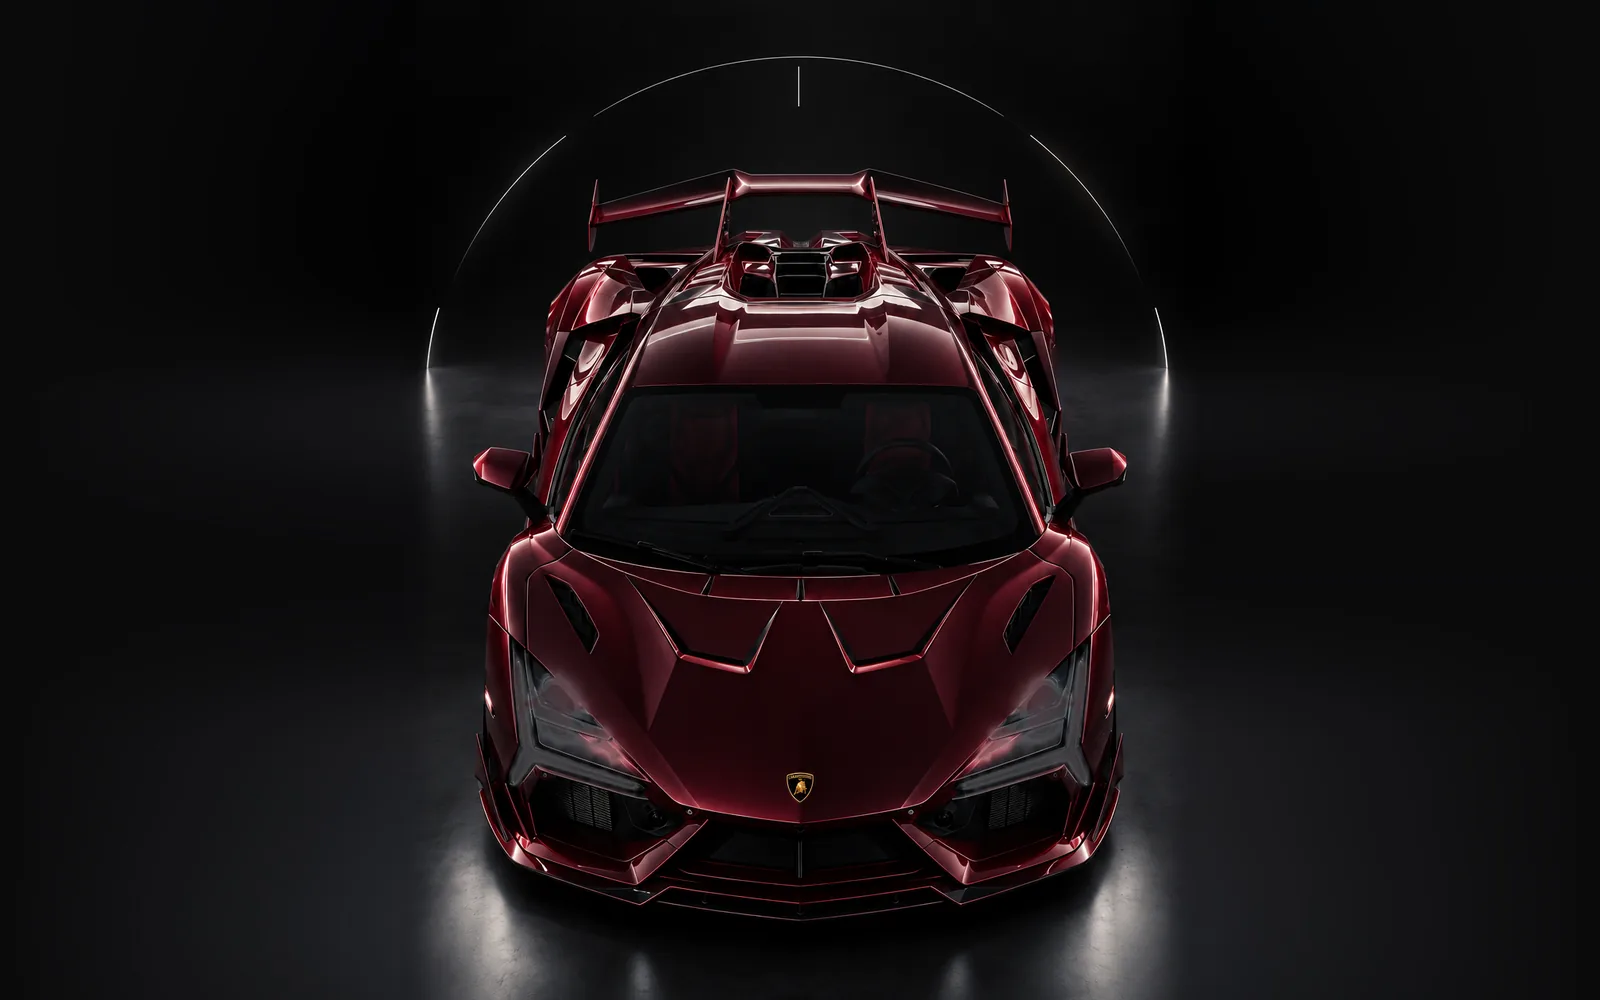
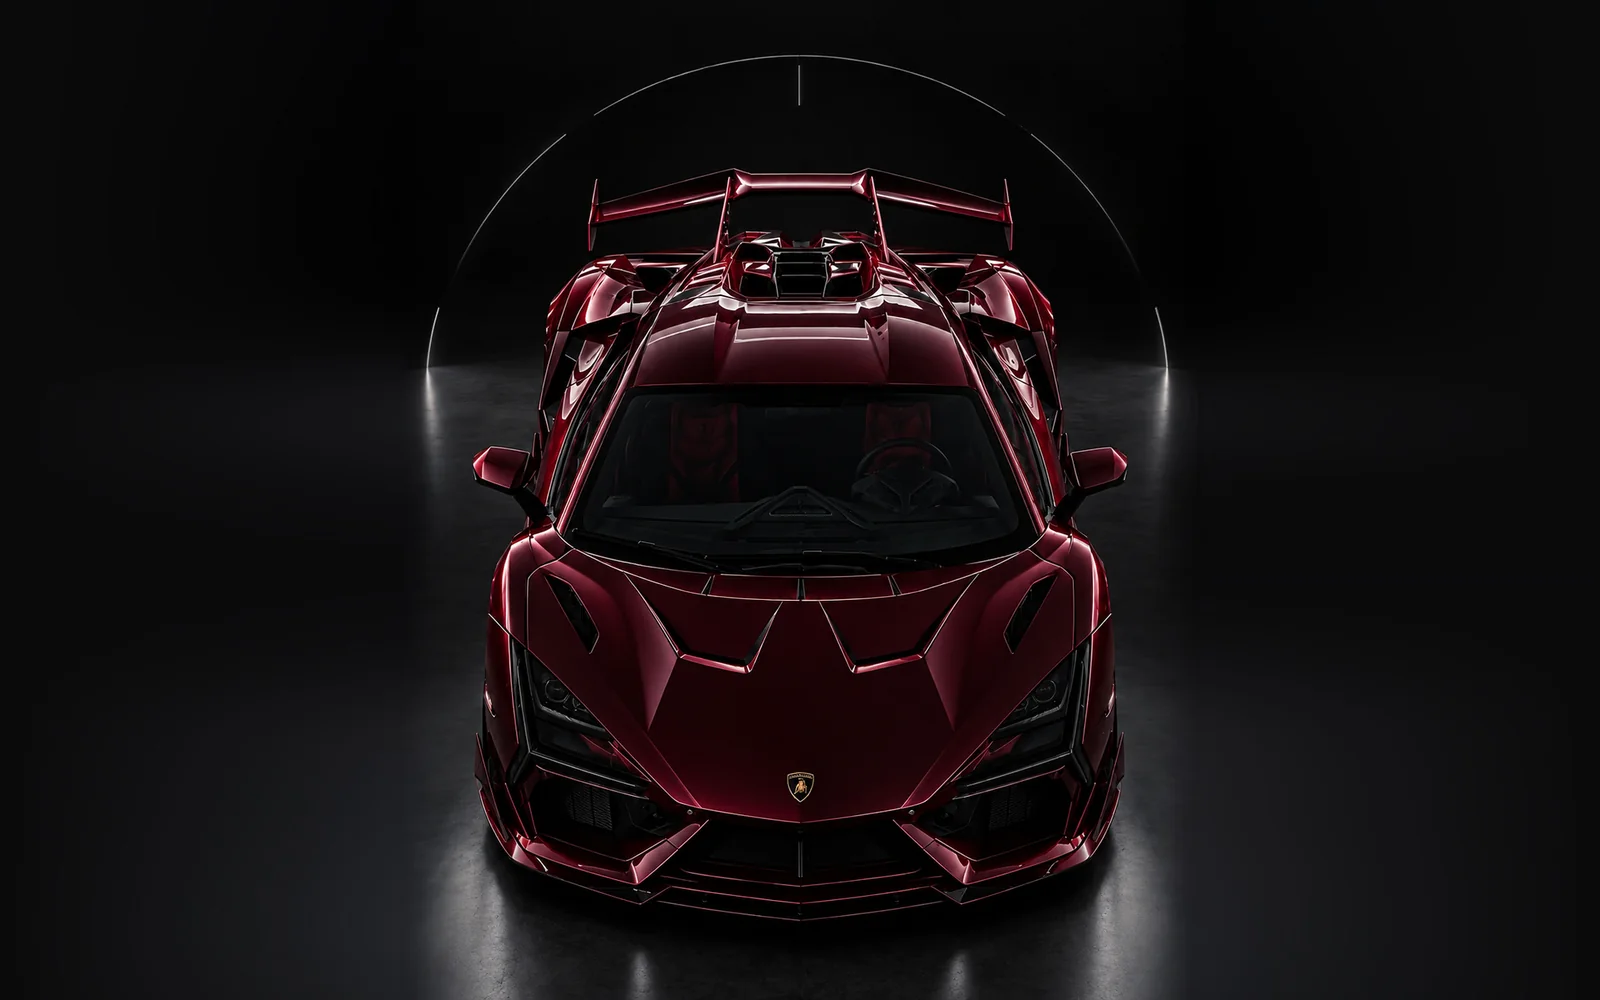
Beyond Factory: lights-off state is the client's unlit render (desktop and phone)

diff --git a/src/data/site.ts b/src/data/site.ts
@@ -152,10 +152,13 @@ export const site = {
       // UNCONFIRMED: no enquiry/booking flow yet, so it opens the Coming Soon dialog
       url: null as string | null,
     },
-    // Lights-off / lights-on pair. "On" is the original photo itself; "off" is
-    // the same photo with the original's own lights-off lamp patches
-    // (supercar-led-off-l/r, commit 79b7bcf) baked in. The "on" photo powers
-    // on over the "off" one. Edges melt into the page black via a CSS mask.
+    // Lights-off / lights-on pair. "On" is the original photo itself. "Off"
+    // is the client's unlit render ("Unlit Burgundy Lamborghini in Dark
+    // Studio.png", 2026-11-12): the same framing at 1122×1402, resized to the
+    // mobile cut (registered to the lit photo: scale 1008/1122, no offset);
+    // desktop sets it in the lit photo's 2016-wide studio surround, feathered
+    // over 120px each side. The "on" photo powers on over the "off" one.
+    // Edges melt into the page black via a CSS mask.
     image: {
       alt: 'Burgundy widebody Lamborghini with a large carbon rear wing and bonnet scoop, seen from above and in front in a dark studio',
       width: { desktop: 1600, mobile: 800 },
